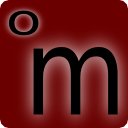
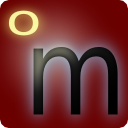
Подправлены иконки, добавлено включение автозапуска.

diff --git a/omweather/__init__.py b/omweather/__init__.py
@@ -1,16 +1,16 @@
 # -*- Mode: Python; coding: utf-8; indent-tabs-mode: nil; tab-width: 4 -*-
 ### BEGIN LICENSE
 # Copyright (C) 2012-2013 qnub <qnub.ru@gmail.com>
-# This program is free software: you can redistribute it and/or modify it 
-# under the terms of the GNU General Public License version 3, as published 
+# This program is free software: you can redistribute it and/or modify it
+# under the terms of the GNU General Public License version 3, as published
 # by the Free Software Foundation.
-# 
-# This program is distributed in the hope that it will be useful, but 
-# WITHOUT ANY WARRANTY; without even the implied warranties of 
-# MERCHANTABILITY, SATISFACTORY QUALITY, or FITNESS FOR A PARTICULAR 
+#
+# This program is distributed in the hope that it will be useful, but
+# WITHOUT ANY WARRANTY; without even the implied warranties of
+# MERCHANTABILITY, SATISFACTORY QUALITY, or FITNESS FOR A PARTICULAR
 # PURPOSE.  See the GNU General Public License for more details.
-# 
-# You should have received a copy of the GNU General Public License along 
+#
+# You should have received a copy of the GNU General Public License along
 # with this program.  If not, see <http://www.gnu.org/licenses/>.
 ### END LICENSE
 
@@ -20,13 +20,14 @@ import os
 import urllib2
 from xml.dom import minidom
 from datetime import datetime
+from shutil import copyfile
 
 from locale import gettext as _
 from gi.repository import Gtk  # pylint: disable=E0611
 from gi.repository import GObject
 from gi.repository import AppIndicator3
 
-from settings import Settings
+from settings import settings
 
 from omweather_lib import set_up_logging, get_version
 
@@ -35,7 +36,9 @@ LASTUPDATE = None
 
 
 def parse_options():
-    """Support for command line options"""
+    """
+    Support for command line options
+    """
     parser = optparse.OptionParser(version="%%prog %s" % get_version())
     parser.add_option(
         "-v", "--verbose", action="count", dest="verbose",
@@ -46,6 +49,9 @@ def parse_options():
 
 
 def update_weather(w, ind):
+    """
+    Update temperature
+    """
     try:
         xml = minidom.parseString(urllib2.urlopen(settings.WEATHER_LINK).read())
         result = xml.getElementsByTagName(
@@ -79,15 +85,44 @@ def update_weather(w, ind):
 
 
 def open_schedule(w):
+    """
+    Open weather schedule in browser
+    """
     os.system('xdg-open ' + settings.WEATHER_SCHEDULE_LINK)
 
     return True
 
 
+def autostart_label():
+    """
+    Check is autostart enabled
+    """
+    if os.path.exists(os.path.expanduser('~/.config/autostart/omweather.desktop')):
+        return settings.MENU_AUTOSTART_OFF_LABEL
+    else:
+        return settings.MENU_AUTOSTART_ON_LABEL
+
+
+def switch_autostart(w):
+    """
+    Switch autostart option
+    """
+    label = autostart_label()
+    autostart_path = os.path.expanduser('~/.config/autostart/omweather.desktop')
+
+    if label == settings.MENU_AUTOSTART_ON_LABEL:
+        try:
+            copyfile('/usr/share/applications/omweather.desktop',
+                autostart_path)
+            w.set_label(settings.MENU_AUTOSTART_OFF_LABEL)
+        except IOError:
+            w.set_label(settings.MENU_AUTOSTART_ON_LABEL)
+    else:
+        os.unlink(autostart_path)
+
+
 def main():
     parse_options()
-    global settings
-    settings = Settings()
     WEATHER_UPDATE_TIMEOUT = 1000 * 60 * settings.WEATHER_UPDATE_TIMEOUT
     ind = AppIndicator3.Indicator.new('om_weather_client',
                           'om_weather_client_icon',
@@ -102,12 +137,17 @@ def main():
     menu_update.connect('activate', update_weather, ind)
     menu.append(menu_update)
 
+    menu_autostart = Gtk.MenuItem(autostart_label())
+    menu_autostart.connect('activate', switch_autostart)
+    menu.append(menu_autostart)
+
     menu_schedule = Gtk.MenuItem(settings.MENU_SCHEDULE_LABEL)
     menu_schedule.connect('activate', open_schedule)
     menu.append(menu_schedule)
 
     # show the items
     menu_update.show()
+    menu_autostart.show()
     menu_schedule.show()
 
     ind.set_menu(menu)

diff --git a/omweather/settings.py b/omweather/settings.py
@@ -1,16 +1,16 @@
 # -*- Mode: Python; coding: utf-8; indent-tabs-mode: nil; tab-width: 4 -*-
 ### BEGIN LICENSE
 # Copyright (C) 2012-2013 qnub <qnub.ru@gmail.com>
-# This program is free software: you can redistribute it and/or modify it 
-# under the terms of the GNU General Public License version 3, as published 
+# This program is free software: you can redistribute it and/or modify it
+# under the terms of the GNU General Public License version 3, as published
 # by the Free Software Foundation.
-# 
-# This program is distributed in the hope that it will be useful, but 
-# WITHOUT ANY WARRANTY; without even the implied warranties of 
-# MERCHANTABILITY, SATISFACTORY QUALITY, or FITNESS FOR A PARTICULAR 
+#
+# This program is distributed in the hope that it will be useful, but
+# WITHOUT ANY WARRANTY; without even the implied warranties of
+# MERCHANTABILITY, SATISFACTORY QUALITY, or FITNESS FOR A PARTICULAR
 # PURPOSE.  See the GNU General Public License for more details.
-# 
-# You should have received a copy of the GNU General Public License along 
+#
+# You should have received a copy of the GNU General Public License along
 # with this program.  If not, see <http://www.gnu.org/licenses/>.
 ### END LICENSE
 
@@ -27,9 +27,11 @@ except ImportError:
 DEFAULT = {
     'WEATHER_LINK': 'http://dove.omsk.otpbank.ru/files/weather.xml',
     'MENU_LABEL': u'Обновить',
+    'MENU_SCHEDULE_LABEL': u'Прогноз',
+    'MENU_AUTOSTART_ON_LABEL': u'Включить автостарт',
+    'MENU_AUTOSTART_OFF_LABEL': u'Выключить автостарт',
     'UPDATE_LABEL': u'Обновлено',
     'WEATHER_SCHEDULE_LINK': 'http://pogoda.yandex.ru/omsk/',
-    'MENU_SCHEDULE_LABEL': u'Прогноз',
     'WEATHER_METRIC': u'°C',
     'WEATHER_UPDATE_TIMEOUT': '15',
     'TEMP_TAG_NAME': 'temperature',
@@ -71,3 +73,6 @@ class Settings(object):
             return self.reader.getint(sect, item)
         else:
             return self.reader.get(sect, item)
+
+
+settings = Settings()

diff --git a/setup.py b/setup.py
@@ -2,16 +2,16 @@
 # -*- Mode: Python; coding: utf-8; indent-tabs-mode: nil; tab-width: 4 -*-
 ### BEGIN LICENSE
 # Copyright (C) 2012-2013 qnub <qnub.ru@gmail.com>
-# This program is free software: you can redistribute it and/or modify it 
-# under the terms of the GNU General Public License version 3, as published 
+# This program is free software: you can redistribute it and/or modify it
+# under the terms of the GNU General Public License version 3, as published
 # by the Free Software Foundation.
-# 
-# This program is distributed in the hope that it will be useful, but 
-# WITHOUT ANY WARRANTY; without even the implied warranties of 
-# MERCHANTABILITY, SATISFACTORY QUALITY, or FITNESS FOR A PARTICULAR 
+#
+# This program is distributed in the hope that it will be useful, but
+# WITHOUT ANY WARRANTY; without even the implied warranties of
+# MERCHANTABILITY, SATISFACTORY QUALITY, or FITNESS FOR A PARTICULAR
 # PURPOSE.  See the GNU General Public License for more details.
-# 
-# You should have received a copy of the GNU General Public License along 
+#
+# You should have received a copy of the GNU General Public License along
 # with this program.  If not, see <http://www.gnu.org/licenses/>.
 ### END LICENSE
 
@@ -134,15 +134,15 @@ class InstallAndUpdateDataDirectory(DistUtilsExtra.auto.install_auto):
 ###################### YOU SHOULD MODIFY ONLY WHAT IS BELOW ######################
 ##################################################################################
 
+
 DistUtilsExtra.auto.setup(
     name='omweather',
-    version='0.3.1-public4',
-    license='GPL-3',
+    version='0.4',
+    license='LGPL-3',
     author='qnub',
     author_email='qnub.ru@gmail.com',
     description='Tray widget with air temperature in Omsk, Russia',
     long_description='Show current air temperature in Russia, Omsk.',
-    # url='https://launchpad.net/omweather',
+    url='http://qnub.github.com/omsk-weather/',
     cmdclass={'install': InstallAndUpdateDataDirectory}
     )
-

diff --git a/CHANGELOG.md b/CHANGELOG.md
@@ -1,8 +1,14 @@
 Список изменений
 ================
 
+0.4
+-----
+
+* добавлена опция добавления/удаления автозапуска
+
+
 0.3.1
-----
+-----
 
 * конфигурация в ~/.config/omweather.cfg
 * переход на шаблон приложения quickly
